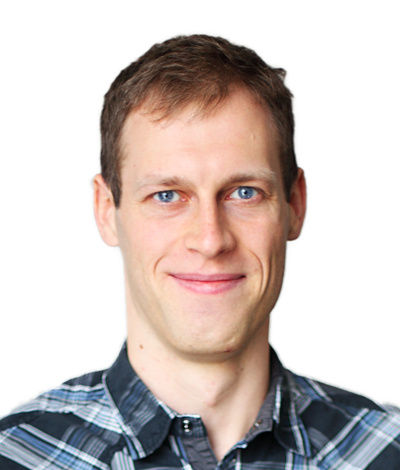
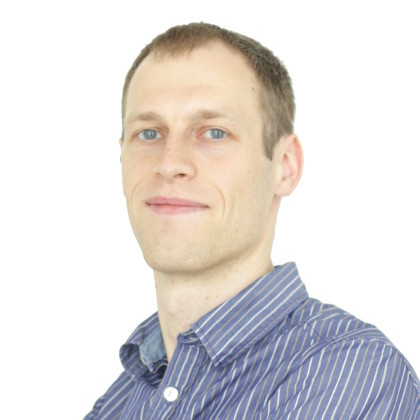
Updated homepage

diff --git a/static/css/site.css b/static/css/site.css
@@ -10,6 +10,13 @@ body {
   max-width: 1000px;
 }
 
+.homepage-photo {
+  width: 210px;
+  height: 210px;
+  border-radius: 50%;
+  float: right;
+}
+
 p, ul, ol,
 h1, h2, h3, h4, h5, h6,
 .metadata,
@@ -154,6 +161,15 @@ code.shell {
   background-color: #000;
 }
 
+.inline-logo {
+  height: 1.3em;
+  vertical-align: middle;
+}
+
+.inline-logo-big {
+  height: 2em;
+}
+
 .author h5 {
   font-size: 18px;
   margin: 1.5em 0 0.2em;
@@ -207,9 +223,6 @@ iframe {
 }
 
 @media (min-width: 1200px) {
-  #homepage {
-    background: #fff url('/portrait.jpg') no-repeat 90% 50px;
-  }
   .navbar-brand, .navbar {
     display: inline-block;
   }

diff --git a/content/about/index.ru.md b/content/about/index.ru.md
@@ -1,0 +1,33 @@
+---
+title: Виктор Кропп
+description: Личный сайт Виктора Кроппа
+id: homepage
+---
+<img src="/photo.jpg" class="homepage-photo" />
+
+Привет!
+
+Я — Виктор Кропп, программист из Санкт-Петербурга <i class="flag flag-ru"></i>, ныне живу в <img src="/images/muenchen.svg" class="inline-logo" /> Мюнхене <i class="flag flag-de"></i>
+
+Работаю в компании <img src="/images/jetbrains.svg" class="inline-logo inline-logo-big" /> <a href="https://jetbrains.com/">JetBrains</a>, где создаю лучшие инструменты для программистов.
+
+<a href="ontherun">Плаваю, езжу на велосипеде, бегаю</a> и <a href="travel">путешествую по миру</a>.
+
+Подписывайтесь на меня в социальных сетях:</p>
+
+<ul class="list-unstyled">
+  <li><i class="fa fa-fw fa-twitter" style="color: rgb(70,192,251);"></i> <a href="https://twitter.com/kropp">@kropp</a></li>
+  <li><i class="fa fa-fw fa-instagram" style="color: rgb(63,114,155);"></i> <a href="https://instagram.com/victorkropp/">victorkropp</a></li>
+  <li><i class="fa fa-fw fa-facebook" style="color: rgb(72,99,174);"></i> <a href="https://www.facebook.com/victor.kropp">Victor Kropp</a></li>
+  <li><i class="fa fa-fw fa-vk" style="color: rgb(69,104,142);"></i> <a href="https://vk.com/kropp">Виктор Кропп</a></li>
+  <li><i class="fa fa-fw fa-github" style="color: rgb(23,21,21)"></i> <a href="https://github.com/kropp/">kropp</a></li>
+</ul>
+
+За фото спасибо <a href="https://500px.com/olga_dyka">Ольге Дикой</a>.
+
+<div class="likely">
+  <div class="twitter" data-via="kropp">Твитнуть</div>
+  <div class="facebook">Поделиться</div>
+  <div class="vkontakte">Поделиться</div>
+  <div class="telegram">Отправить</div>
+</div>

diff --git a/content/about/index.md b/content/about/index.md
@@ -1,0 +1,34 @@
+<img src="/photo.jpg" class="homepage-photo" />
+
+Hey!
+
+I am Victor Kropp, Software Engineer from <img src="images/muenchen.svg" class="inline-logo" /> Munich, <i class="flag flag-de"></i> Germany.
+
+I work at <img src="images/jetbrains.svg" class="inline-logo inline-logo-big" /> <a href="https://jetbrains.com/">JetBrains</a> crafting best tools for developers.
+
+I swim, bike and run and travel around the world.
+
+Follow me on social networks:
+
+<ul class="list-unstyled">
+  <li><i class="fa fa-fw fa-twitter" style="color: rgb(70,192,251);"></i> <a href="https://twitter.com/kropp">@kropp</a></li>
+  <li><i class="fa fa-fw fa-instagram" style="color: rgb(63,114,155);"></i> <a href="https://instagram.com/victorkropp/">victorkropp</a></li>
+  <li><i class="fa fa-fw fa-facebook" style="color: rgb(72,99,174);"></i> <a href="https://www.facebook.com/victor.kropp">Victor Kropp</a></li>
+  <li><i class="fa fa-fw fa-vk" style="color: rgb(69,104,142);"></i> <a href="https://vk.com/kropp">Виктор Кропп</a></li>
+  <li><i class="fa fa-fw fa-github" style="color: rgb(23,21,21)"></i> <a href="https://github.com/kropp/">kropp</a></li>
+</ul>
+
+PGP key: <a href="FCE4ADBD.asc">4AEF D688 FCE4 ADBD</a> (also on <a href="https://keybase.io/kropp">Keybase</a>)
+
+Explore more in russian version: my <a href="/ru/ontherun/">sport blog</a>, <a href="/ru/books/">books</a> I read, my <a href="/ru/travel/">trips</a>.
+
+Source code of this site is available on <i class="fa fa-github" style="color: rgb(23,21,21)"></i> <a href="https://github.com/kropp/victor.kropp.name">GitHub</a>.
+
+Thanks <a href="https://500px.com/olga_dyka">Olga Dyka</a> for the photo.</p>
+
+<div class="likely">
+  <div class="twitter" data-via="kropp">Tweet</div>
+  <div class="facebook">Share</div>
+  <div class="vkontakte">Share</div>
+  <div class="telegram">Send</div>
+</div>
